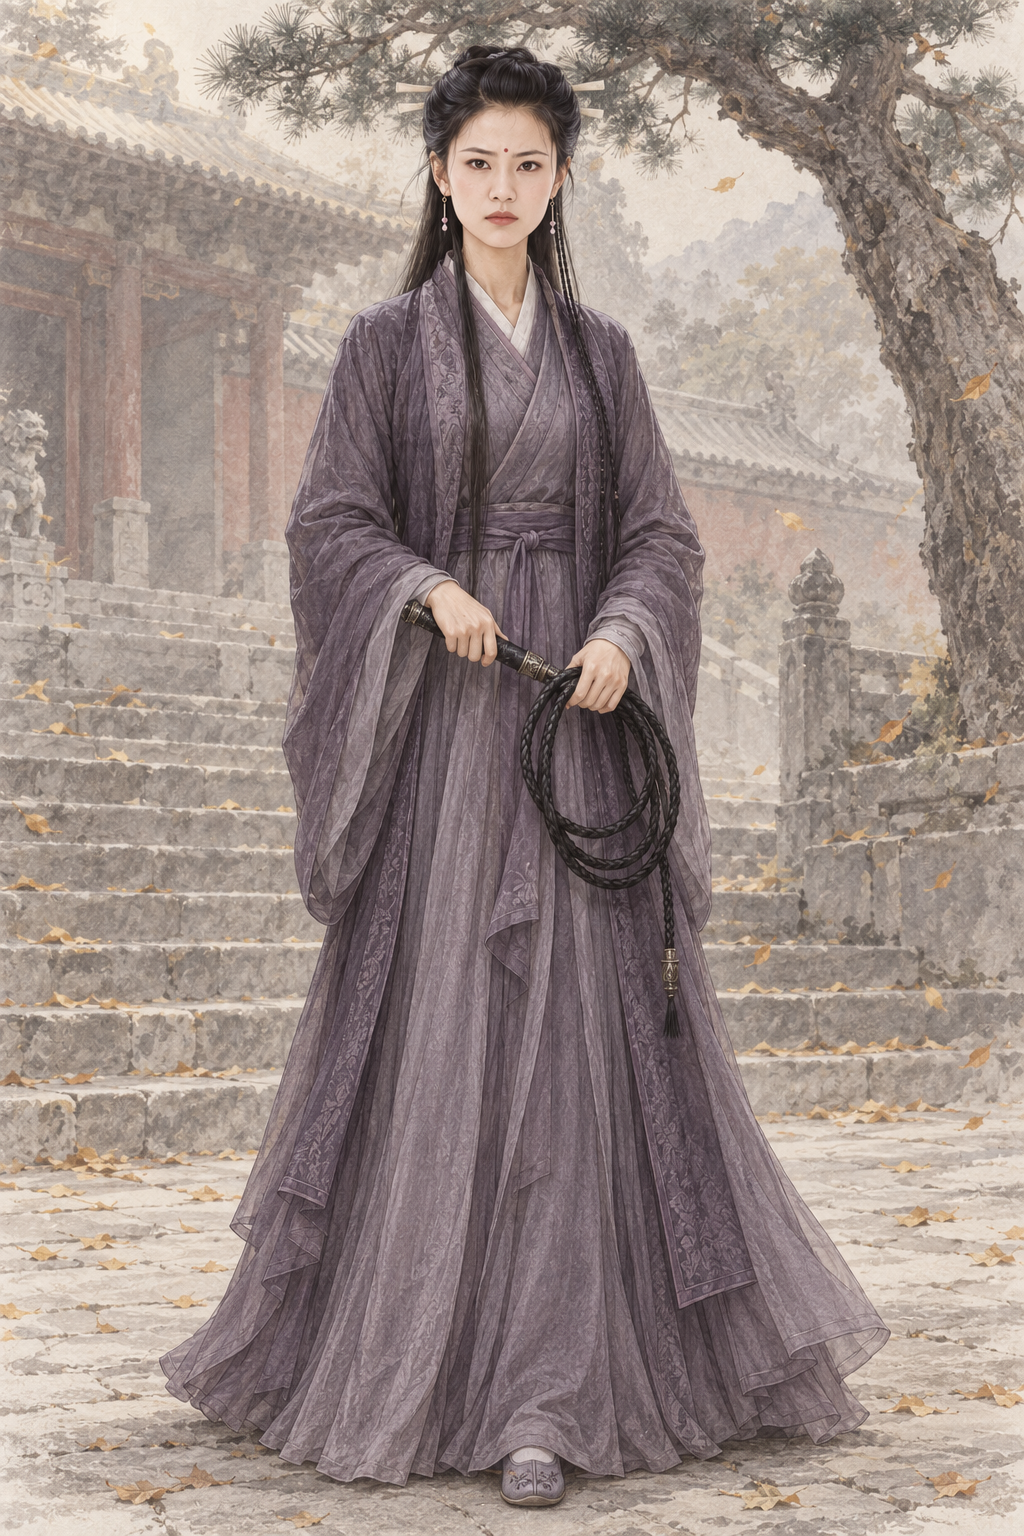
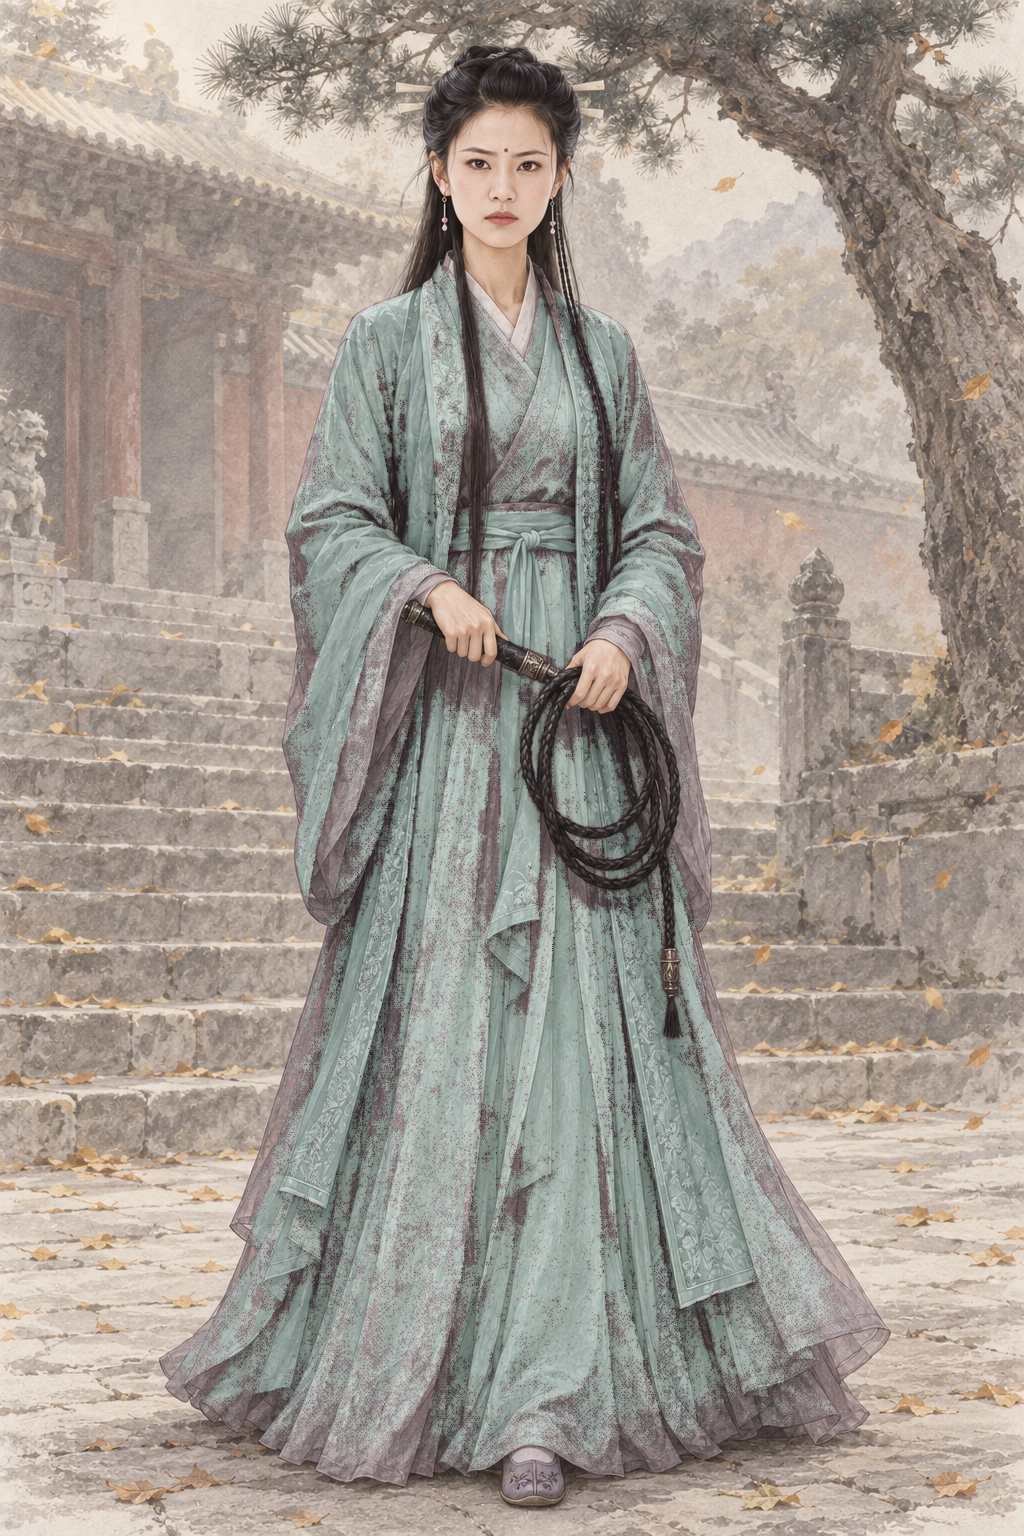
assets: AR-82 原著核对返修 周芷若少林长鞭服色改素淡青衣
原著摘句已同步提示词；已打开验图；蒙版外0像素变化。

Executed-By: Codex gpt-6.1-sol（AR-82）

Changed region(s): [[0.1562, 0.1562, 0.8438, 0.9688]]

diff --git a/assets/default/prompts/characters/ch04-yitian/npc_zhouzhiruo__scene_shaolin.md b/assets/default/prompts/characters/ch04-yitian/npc_zhouzhiruo__scene_shaolin.md
@@ -122,3 +122,8 @@ Create a premium REALISTIC Chinese wuxia character illustration with a delicate 
 - 采用作者授权宽松自查；偏差如实记录，candidate不代表approved。
 - 源PNG通常为1024×1536 RGB；其他原生2:3尺寸如实登记，原字节保存，不裁切、重编码、放大或去除溯源。
 - 完整请求、实际参考哈希及旧版本备份见 `.agents/coord/portrait-generation/realism-20261001/por_npc_zhouzhiruo__ch04_youth_scene_shaolin.prepared.json`。
+
+## 原著依据
+
+- 《倚天屠龙记》三十八 君子可欺之以方：“青影闪动，一条长鞭迎面击来”；https://www.xuges.com/wuxia/jinyong/yttlj/284.htm
+- AR-82 返修约束（本节优先于历史提示词）：只把灰紫色主体衫裙改为素淡青色（清淡的青绿、不是紫色），保留原衣服款式和衣褶、右手软鞭与左手抓鞭圈状态；不要加短剑。脸、发式、手、鞭、背景不动。
